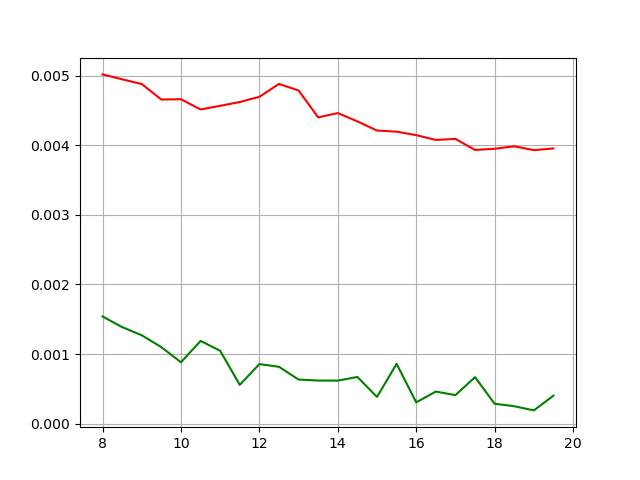
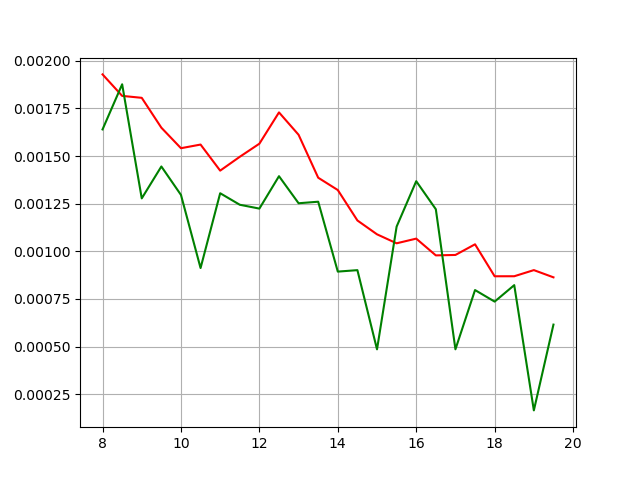
bug fix

diff --git a/drone/dataAnalysis.py b/drone/dataAnalysis.py
@@ -5,53 +5,72 @@ from scipy.fftpack import fftfreq
 from datetime import datetime
 import numpy as np
 
+def sum2d(array):
+    sum = 0
+    for row in range (len(array)):
+        for col in range(len(array[0])):
+            sum = sum + array[row][col]
+    return sum
+
 def car(sample, allSamples):
+    """
+    sample - float reprezentujacy wartosc z jednej elektrody w danym punkcie czasu
+    allSamples - lista zawierajaca wartosci wszystkich elektrod w danym punkcie czasu
+    """
     return sample - allSamples.mean()
 
 def ambientFreq(signal, frequencies, step):
+    """
+    wyznacza czestotliwosc tla (gdy nie ma zadnej czestotliwosci)
+    signal - lista wartosci danej elektrody w przedziale czasowym
+    frequencies - wycinek oryginalnej macierzy informujacy czy pojawily sie jakies czestotliwosci
+    step - przedzial czasowy do fft
+    """
     average = np.zeros(step)
     count = 0
 
     i = step
     length = len(signal)
     progress = 0
+    date = datetime.now().strftime("%Y-%m-%dT%H:%M:%S.%f")
+    print(f"{date} {round(progress * 100)}% done")
     while i < length:
-        if sum(map(lambda f: sum(f), frequencies[i-step:i])) == 0:
+        if sum2d(frequencies[i-step:i]) == 0:
             average = np.add(average, np.abs(fft(signal[i-step:i])))
             count += 1
         if i / length > progress:
-            date = datetime.now().strftime("%Y-%m-%dT%H:%M:%S.%f")
-            print(f"{date} {int(round(progress * 100))}% done")
             progress += 0.1
+            date = datetime.now().strftime("%Y-%m-%dT%H:%M:%S.%f")
+            print(f"{date} {round(progress * 100)}% done")
         i += step
-    print(f"{date} {int(progress * 100)}% done")
     return average / count
 
 def nonZeroFreqTest(signal, frequencies, step):
-    i = step + 50000
+    """
+    szuka 2s przedzialu czestotliwosci wypelnionego w 90% jedynkami i oblicza z niego fft
+    signal - lista wartosci danej elektrody w przedziale czasowym
+    frequencies - wycinek oryginalnej macierzy informujacy czy pojawily sie jakies czestotliwosci
+    step - przedzial czasowy do fft
+    """
+    i = step
     length = len(signal)
-    progress = 0
     while i < length:
-        #print(f"{i} {sum(frequencies[i-step:i, 1])}")
         if sum(frequencies[i-step:i, 1]) >= 0.9 * step:
             return np.abs(fft(signal[i-step:i]))
-        if i / length > progress:
-            date = datetime.now().strftime("%Y-%m-%dT%H:%M:%S.%f")
-            print(f"{date} {int(round(progress * 100))}% done")
-            progress += 0.1
         i += 1
-    print(f"{date} {int(progress * 100)}% done")
     return None
 
 if __name__ == "__main__":
     matrix = loadmat('dane.mat')['matrix']
-    step = 2000
-    frequency = 1000
-    allProbes = matrix[:, 5:21]
-    frequencies = matrix[:, 26:28]
-    signal1 = matrix[:, 11]
+    step = 2000 #przedzial czasowy do fft
+    start = 5000 #od ktorych probek zaczynamy analize
+    frequency = 1000 #czestotliwosc sygnalu
+    allProbes = matrix[:, 5:21] #wycinek macierzy zawierajcy sygnal z wszystkich elektrod
+    frequencies = matrix[:, 26:28] #wycinek maciery zawierajacy informacje czy wystapily czestotliwosci
+    signal1 = matrix[:, 11] #sygnal z jednej elektrody potylicznej
+
     carSignal1 = list(map(car, signal1, allProbes))
-    ambientFreqPow1 = ambientFreq(carSignal1, frequencies, step)
+    ambientFreqPow1 = ambientFreq(carSignal1[start:], frequencies[start:], step)
     freqValues = fftfreq(step, 1 / frequency)
 
     N = step
@@ -67,7 +86,7 @@ if __name__ == "__main__":
         maxIndex += 1
 
     y1 = ambientFreqPow1[minIndex:maxIndex]
-    y2 = nonZeroFreqTest(carSignal1, frequencies, step)[minIndex:maxIndex]
+    y2 = nonZeroFreqTest(carSignal1[start:], frequencies[start:], step)[minIndex:maxIndex]
     x = freqValues[minIndex:maxIndex]
 
     import matplotlib
